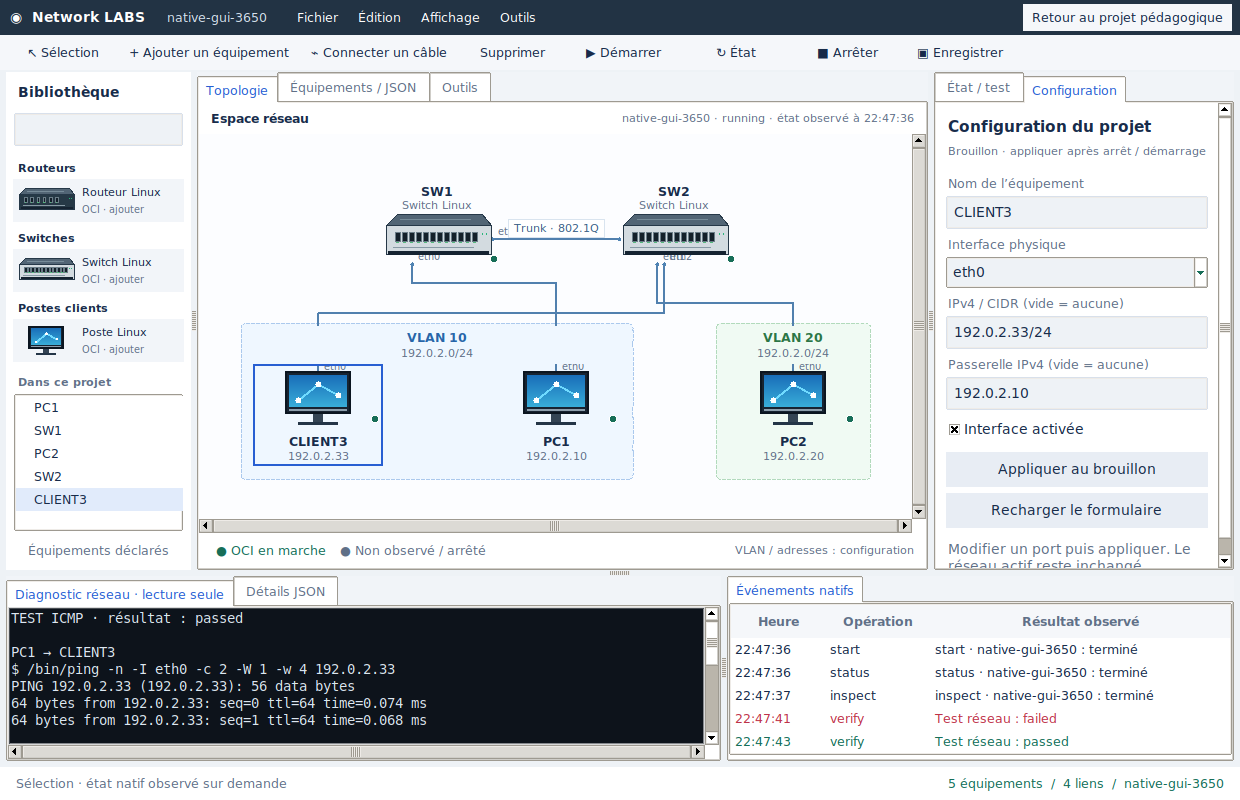
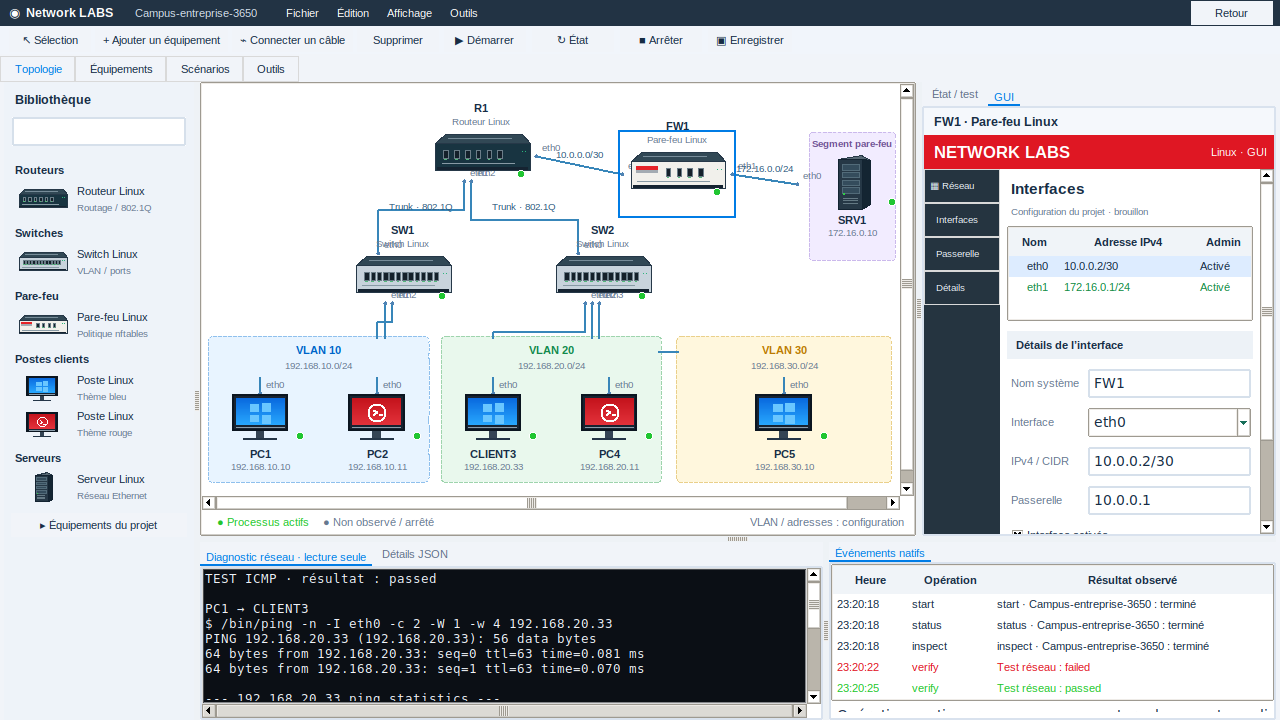
Retain reference-colour campus screenshot and complete native acceptance evidence [skip ci]

diff --git a/docs/NATIVE_GUI_FLOW.md b/docs/NATIVE_GUI_FLOW.md
@@ -94,7 +94,7 @@ This is the actual Xvfb capture after real native verification.
 The public [operation report](images/native-gui-result.json) records the UI UID,
 result-file owners, native probe and stop outcome. The
 [provenance record](images/native-gui-provenance.json) binds both files to
-artifact 13547310471, source commit and run/job, with the verified original ZIP
+artifact 13548780601, source commit and run/job, with the verified original ZIP
 SHA-256 and individual file hashes. The desktop/native job passed on the same commit.
 
 ## Previous desktop layout (rejected as the design reference)
@@ -366,3 +366,63 @@ including wired 802.1X and the
 The other 52 profiles were intentionally skipped. The visual redesign changed
 presentation and the GUI test fixture; native runtime/protocol behavior and
 privilege boundaries remain unchanged.
+
+## Reference palette, complete-height library and campus layout
+
+After the user again rejected the visual distance and dull colours, source
+`9fcbd4a720cf49bfc3279caa1b6c429689aa05b2` rebuilds the shell around the actual
+1280×720 reference proportions: compact dark header/light action bar, top
+navigation, full-height left library, topology above the diagnostics and
+operation table, and a right-hand management GUI with red masthead, dark
+navigation rail, interface table and editable details. The library no longer
+ends above a console spanning the entire window. Blue/red monitor themes,
+blue/green/amber VLAN areas, a protected-server area and brighter status LEDs
+replace the earlier steel/grey look. Native-only theme styles preserve the
+pedagogical desktop styles on return. Original artwork/themes do not imply
+Windows guests, vendor firmware, Wi-Fi, LACP or DNS/Web services.
+
+The native workbench opens the validated **Campus-entreprise** template by
+default. **Fichier → Campus entreprise** / **Scénarios** lets the user choose
+a rootfs/name for a new copy. **Fichier → Nouveau LAN** retains the small LAN.
+The real template has ten OCI nodes/nine cables: R1 with three routed VLAN
+subinterfaces, two VLAN switches, five clients, default-drop stateful FW1 and
+SRV1 behind the firewall. These are native Linux roles, not product replicas.
+SRV1 is a Linux endpoint; no DNS/Web application is advertised as running.
+The firewall/server leaf is visually labelled **Segment pare-feu** without
+asserting a broader security guarantee. The palette creates generic router,
+switch, explicitly default-drop firewall, client and server-host presets.
+The server preset remains a host role. Advanced policy remains JSON.
+
+The optional project-device list is collapsed to preserve the supplied
+catalogue layout; its toggle exposes actual project nodes, and search handles
+both catalogue entries and named nodes. GUI interface rows show configured
+addresses/admin state. They are not continuous kernel-link monitoring.
+The management panel edits the same validated/stale-protected draft as before.
+
+Local validation now includes actual Tk tests under a temporary Xvfb display,
+without changing system packages. A stale polling timer found during that
+preview was canceled correctly; native operation semantics are unchanged.
+The full local suite passed 1047 cases in 38.163 s (141 environment/optional
+skips). The [CI desktop/native job](https://github.com/sou1915/Network-LABS/actions/runs/42311053032/job/128212313234)
+passed 1047 cases in 49.576 s (116 skips) plus the real campus in 9.887 s.
+The device form renamed/addressed CLIENT3 at 192.168.20.33/24; kernel inspection
+observed its default route via 192.168.20.1. PC1 ↔ CLIENT3 succeeded across
+R1 between VLAN 10 and VLAN 20 (actual routed TTL 63); PC1 ↔ SRV1 failed through
+the default-drop firewall. Both reports remain in the artifact. All seven
+result files belonged to UID 1001, direct root-state reads were denied, and
+confirmed teardown left no callback/host-network leaks.
+
+The current screenshot/report/provenance bind to artifact 13548780601 at
+source 9fcbd4a, with verified original ZIP and per-file hashes. The screenshot
+shows the actual running campus and FW1 configuration; local draft previews
+were not substituted for native evidence. Interactive consoles, packet-event/
+capture workflows and richer vendor-style forms remain pending.
+
+
+All ten selected jobs on reference-campus source 9fcbd4a passed in
+[run 42311053032](https://github.com/sou1915/Network-LABS/actions/runs/42311053032),
+including wired 802.1X and the
+[7/7 LAN aggregate](https://github.com/sou1915/Network-LABS/actions/runs/42311053032/job/128214033629).
+The other 52 profiles were intentionally skipped. The GUI/campus template and
+fixture changed; native runtime/protocol assertions and privilege boundaries
+were not weakened.

diff --git a/docs/CODEX_HANDOFF.md b/docs/CODEX_HANDOFF.md
@@ -21,6 +21,35 @@ the shell and essential native workflows, then graphical editing and supported
 configuration. Keep providing real implementation screenshots. LAN core stays
 accepted; VXLAN remains tracked after LAN/GUI.
 
+## Current priority: supplied reference proportions and brighter palette
+
+The user rejected the previous look again, requesting the same design and
+colours as images/agreed-gui-reference.jpg. Source
+`9fcbd4a720cf49bfc3279caa1b6c429689aa05b2` now uses the 1280×720 layout:
+full-height left catalogue; topology/diagnostics to its right; compact top
+navigation; a red/dark management pane with interface table/details; blue/red
+monitor themes and blue/green/amber VLAN areas. Default native project is now
+the real Campus-entreprise template (10 nodes, 9 links), with routed VLANs
+10/20/30, two switches, R1, default-drop FW1 and a server endpoint. There is
+no fake Wi-Fi, vendor firmware, LACP or DNS/Web readiness. Client/server themes
+are presentation of Linux hosts. Small-LAN creation remains available.
+
+The [desktop/native job](https://github.com/sou1915/Network-LABS/actions/runs/42311053032/job/128212313234)
+passed 1047 cases (49.576 s, 116 skips) plus the real campus (9.887 s), on its
+first native run. The form changed CLIENT3's name/address/default gateway;
+actual inter-VLAN PC1 ↔ CLIENT3 passed through R1, and PC1 ↔ SRV1 was blocked
+by FW1's default-drop policy. Seven result files remained UID 1001; root-state
+read refusal, stop, callback and host-network invariants passed. Current
+screenshot/proof/provenance: artifact 13548780601 at source 9fcbd4a. Full local
+regression under temporary Xvfb passed 1047 cases (38.163 s, 141 skips), plus
+focused actual Tk tests. Polling timer cleanup was corrected after local
+preview. See NATIVE_GUI_FLOW.md for exact behaviour and remaining scope.
+
+Keep the provided design as the reference. Next work: genuine interactive
+native consoles/capture and richer supported management forms, without routing
+native operations through the model backend. LAN core stays accepted; static
+VXLAN remains tracked after LAN/GUI. Older look checkpoints below are history.
+
 ## Current GUI visual correction
 
 Source `22e2206112e36d2a513e674a3c7cf76370314097` addresses the user's
@@ -1340,3 +1369,12 @@ including wired 802.1X and the
 The other 52 profiles were intentionally skipped. The visual redesign changed
 presentation and the GUI test fixture; native runtime/protocol behavior and
 privilege boundaries remain unchanged.
+
+
+All ten selected jobs on reference-campus source 9fcbd4a passed in
+[run 42311053032](https://github.com/sou1915/Network-LABS/actions/runs/42311053032),
+including wired 802.1X and the
+[7/7 LAN aggregate](https://github.com/sou1915/Network-LABS/actions/runs/42311053032/job/128214033629).
+The other 52 profiles were intentionally skipped. The GUI/campus template and
+fixture changed; native runtime/protocol assertions and privilege boundaries
+were not weakened.

diff --git a/docs/PROJECT_STATUS.md b/docs/PROJECT_STATUS.md
@@ -16,6 +16,17 @@ Current work is on `handoff/codex-dot1x-2026-11-04`; this checkpoint does not
 claim it has been merged into the older prototype branch. Use the native
 guides on this branch for the recent engine features.
 
+## Reference-colour campus workspace
+
+The latest visual revision follows the supplied 1280×720 proportions with a
+full-height catalogue, compact bars/navigation, brighter device/VLAN colours,
+and a red/dark management panel with an actual interface table and form. The
+default campus has ten real OCI nodes/nine cables, three routed VLANs, two
+switches, a router, default-drop firewall and server endpoint. Native CI
+verified inter-VLAN traffic and firewall blocking; the captured screenshot
+shows this actual campus. Generic artwork does not add proprietary firmware,
+Windows/Wi-Fi or server application support. See NATIVE_GUI_FLOW.md for proof.
+
 ## Visual alignment increment
 
 The user's supplied image now drives compact menus/toolbar, an illustrated
@@ -437,3 +448,12 @@ including wired 802.1X and the
 The other 52 profiles were intentionally skipped. The visual redesign changed
 presentation and the GUI test fixture; native runtime/protocol behavior and
 privilege boundaries remain unchanged.
+
+
+All ten selected jobs on reference-campus source 9fcbd4a passed in
+[run 42311053032](https://github.com/sou1915/Network-LABS/actions/runs/42311053032),
+including wired 802.1X and the
+[7/7 LAN aggregate](https://github.com/sou1915/Network-LABS/actions/runs/42311053032/job/128214033629).
+The other 52 profiles were intentionally skipped. The GUI/campus template and
+fixture changed; native runtime/protocol assertions and privilege boundaries
+were not weakened.

diff --git a/README.md b/README.md
@@ -42,7 +42,11 @@ Les estimations de progression ne sont pas des pourcentages de couverture des te
 topologie au centre et inspecteur à droite, selon la disposition existante.
 Création de postes/switches/routeurs OCI, câblage par ports libres ou nouveaux,
 suppression et déplacement sont disponibles pour le brouillon. Enregistrer puis
-arrêter/redémarrer applique la topologie ; les positions restent en session.
+arrêter/redémarrer applique la topologie ; les positions restent en session. Le projet initial est maintenant un
+campus natif de dix nodes (VLAN 10/20/30, routeur, deux switches, firewall bloquant
+par défaut et serveur endpoint). **Fichier → Campus entreprise** crée une copie
+avec votre rootfs ; **Nouveau LAN** conserve le petit exemple. La bibliothèque
+occupe toute la hauteur et le panneau GUI affiche ports/adresses/détails.
 L’onglet Configuration du panneau équipement permet le nom, IPv4/passerelle et
 l’état d’un port OCI ; les modifications sont validées avant application au brouillon. La bibliothèque
 est illustrée et classée ; le canevas affiche les groupes VLAN déclarés et

diff --git a/docs/LAN_NEXT_STEPS.md b/docs/LAN_NEXT_STEPS.md
@@ -18,6 +18,13 @@ richer supported forms and the
 actual [user-supplied visual target](images/agreed-gui-reference.jpg), not more
 advanced LAN prerequisites. See NATIVE_GUI_FLOW.md for edited-topology proof.
 
+The native GUI now opens a real ten-node campus matching the supplied layout:
+routed VLANs 10/20/30, two switches, router, default-drop firewall and server
+endpoint. Bright reference palette, full-height catalogue and management
+interface table are implemented; native inter-VLAN and firewall-path probes
+passed. Continue interactive consoles/capture and richer supported GUI within
+the supplied visual reference; do not reopen advanced LAN as a prerequisite.
+
 ## Core closure and next phase — 2026-11-06
 
 The [consolidated gate](https://github.com/sou1915/Network-LABS/actions/runs/42262198799/job/128047268789)
